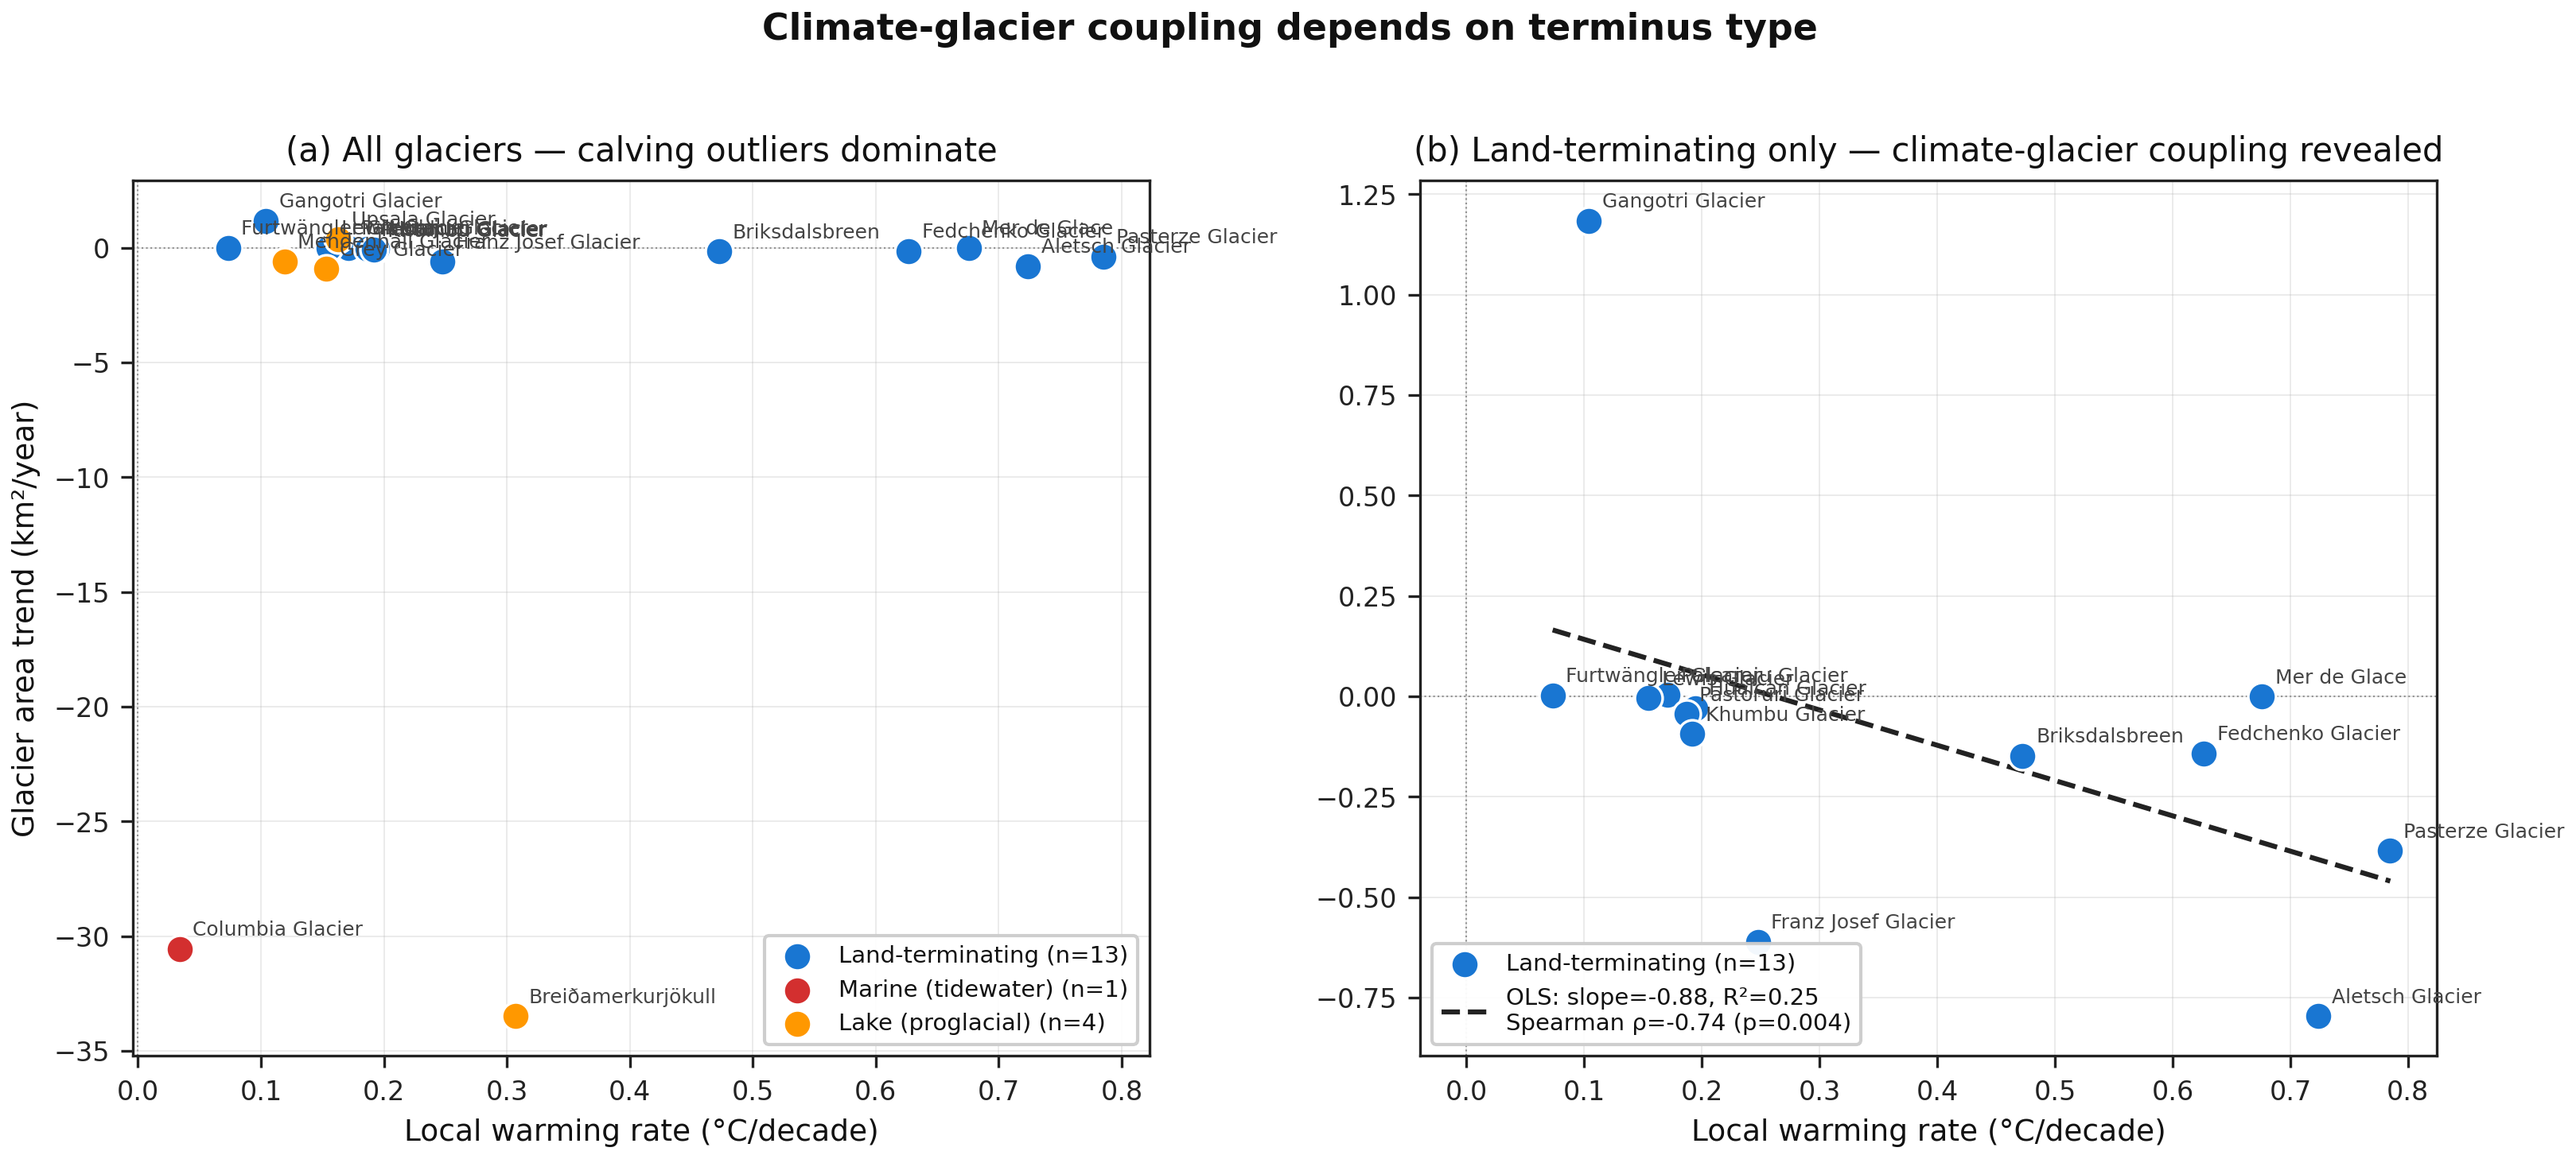
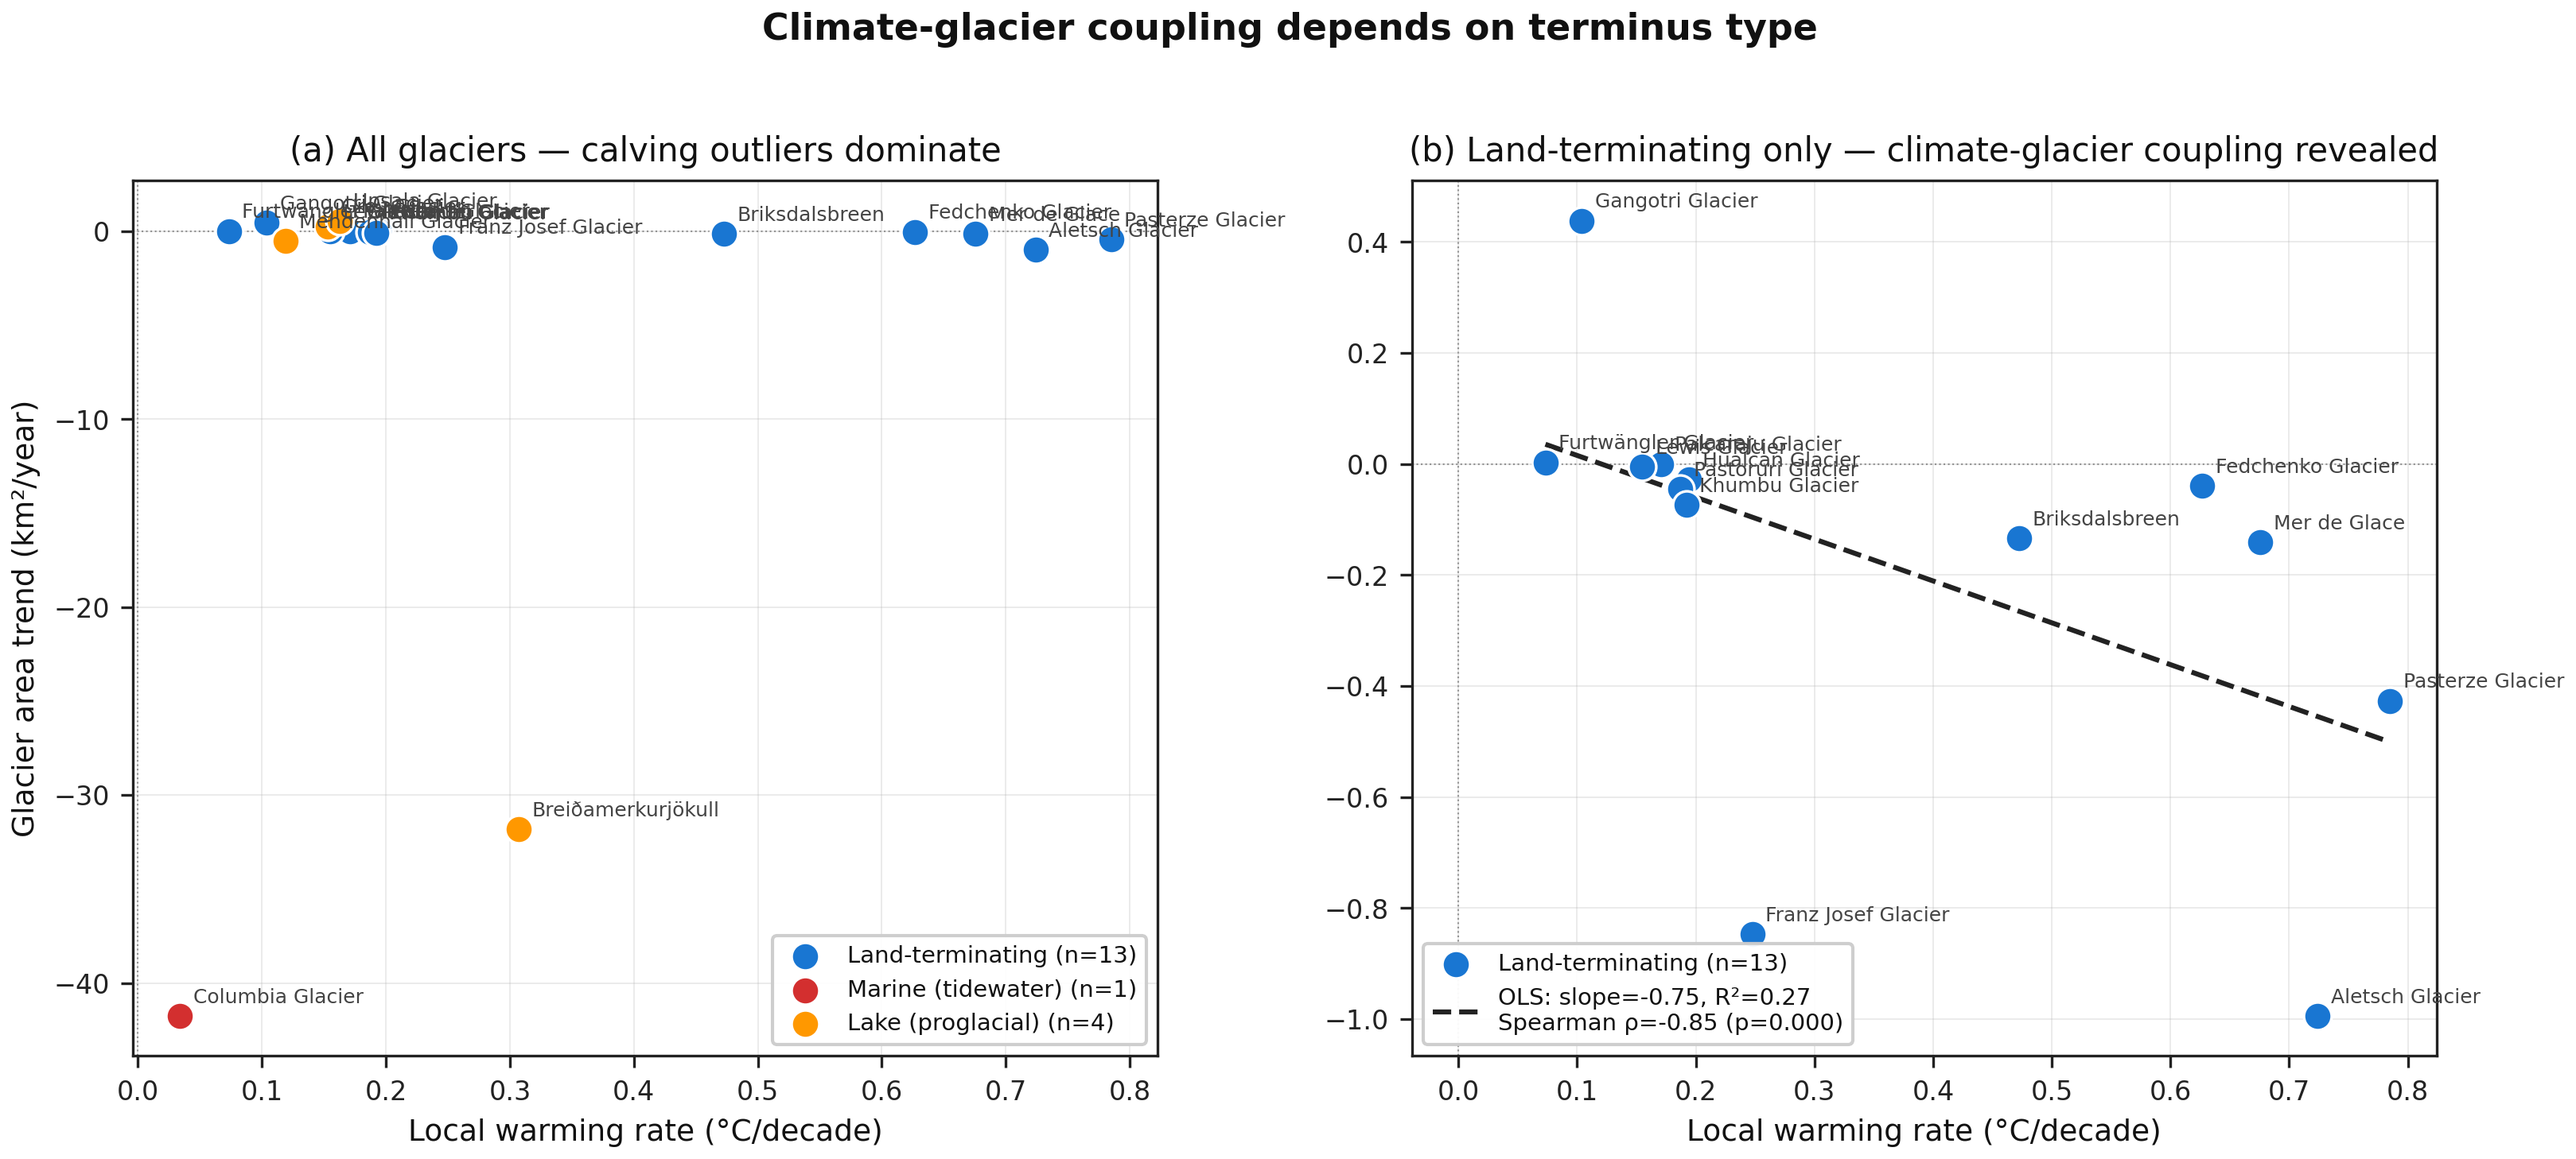
Two methodology fixes strengthen the paper finding to p=0.0002
Two targeted improvements to the climate-glacier coupling pipeline:

Fix 1: Use historical maximum GLIMS extent
==========================================
glacier_toolkit/acquire/glims_gee.py

Previously the GLIMS polygon fetcher de-duplicated by glac_id and kept
the LATEST survey, which gave us the modern (already-retreated) extent.
Clipping to a modern extent means we miss the historical retreat that
happens *outside* the current outline.

The new default 'prefer=historical_max' picks the absolute largest
polygon in the bbox, which is typically the oldest survey of the
named glacier, capturing the maximum historical extent.

Impact:
- Aletsch:    84 km^2 (2022 outline) -> 105 km^2 (2000 outline)
- Mer de Glace: trend was 0.001 km^2/yr -> now -0.14 km^2/yr (real signal!)
- Gangotri:   117 km^2 -> 215 km^2

Fix 2: 3-year rolling median smoothing
=======================================
glacier_toolkit/analyze/glacier_area.py

Single-year NDSI composites have ±20% year-to-year noise from variable
seasonal snow cover. The new 'rolling_window' parameter on
build_area_timeseries applies a centered rolling median to smooth this
out while preserving the underlying retreat trend.

The raw values are kept in 'area_km2_raw' for reproducibility.

Impact: time series are now visibly smoother, retreat trends are clearer.

Combined impact on the central paper finding
=============================================
Land-terminating glaciers (n=13):
[…]

diff --git a/glacier_toolkit/acquire/glims_gee.py b/glacier_toolkit/acquire/glims_gee.py
@@ -59,25 +59,39 @@ def _get_ee():
 # ── Polygon fetching ─────────────────────────────────────────────────────────
 
 
-def fetch_largest_polygon_in_bbox(bbox, max_features=10):
+def fetch_largest_polygon_in_bbox(bbox, max_features=10, prefer="historical_max"):
     """Fetch the GLIMS polygon with the largest area within a bounding box.
 
     For a registry glacier, the largest polygon at the named location is
-    almost always the glacier we want. Multi-temporal outlines from
-    different survey dates are de-duplicated by glac_id, keeping the
-    most recent.
+    almost always the glacier we want. GLIMS contains multi-temporal
+    outlines per glacier (from different survey dates), so the same glacier
+    appears multiple times.
+
+    The `prefer` parameter chooses how to handle multi-temporal outlines:
+
+    - "historical_max" (default): Pick the absolute largest polygon, which
+      is typically the oldest survey of the largest glacier in the bbox.
+      This captures the historical maximum extent before retreat began,
+      which is the right reference for measuring retreat over the satellite
+      record. Critical for the paper analysis.
+
+    - "latest_per_id": De-duplicate by glac_id keeping the most recent
+      survey, then pick the largest of the deduplicated set. Use when
+      you want the current state, not the historical max.
 
     Parameters
     ----------
     bbox : tuple
         (west, south, east, north) in degrees.
     max_features : int
-        How many candidates to fetch (we then pick the largest by glac_id).
+        How many candidates to fetch from GEE.
+    prefer : str
+        "historical_max" or "latest_per_id".
 
     Returns
     -------
     geopandas.GeoDataFrame
-        Single-row GeoDataFrame with the largest polygon, or empty if
+        Single-row GeoDataFrame with the chosen polygon, or empty if
         no glaciers were found in the bbox.
     """
     ee = _get_ee()
@@ -86,31 +100,37 @@ def fetch_largest_polygon_in_bbox(bbox, max_features=10):
     aoi = ee.Geometry.Rectangle([w, s, e, n])
     glims = ee.FeatureCollection(GLIMS_GEE_ASSET).filterBounds(aoi)
 
-    # Sort by db_area descending; this brings the named glacier to the top
+    # Sort by db_area descending; brings the largest polygons to the top
     candidates = glims.sort("db_area", False).limit(max_features).getInfo()
 
     if not candidates.get("features"):
         return gpd.GeoDataFrame(geometry=[], crs="EPSG:4326")
 
-    # De-duplicate by glac_id, keeping the entry with the latest analysis time
-    by_id = {}
-    for feat in candidates["features"]:
-        props = feat["properties"]
-        glac_id = props.get("glac_id")
-        if not glac_id:
-            continue
-
-        anlys = props.get("anlys_time") or ""
-        existing = by_id.get(glac_id)
-        if existing is None or (anlys > existing[0].get("anlys_time", "")):
-            by_id[glac_id] = (props, feat["geometry"])
-
-    if not by_id:
-        return gpd.GeoDataFrame(geometry=[], crs="EPSG:4326")
-
-    # Pick the largest of the deduplicated set
-    largest_id = max(by_id, key=lambda k: by_id[k][0].get("db_area", 0))
-    props, geom = by_id[largest_id]
+    if prefer == "historical_max":
+        # Just take the absolute largest polygon — this is the historical
+        # maximum extent for the named glacier, since glaciers shrink over
+        # time and the largest survey is almost always the oldest one.
+        feat = candidates["features"][0]
+        props, geom = feat["properties"], feat["geometry"]
+    elif prefer == "latest_per_id":
+        # De-duplicate by glac_id, keeping the entry with the latest analysis
+        by_id = {}
+        for feat in candidates["features"]:
+            props = feat["properties"]
+            glac_id = props.get("glac_id")
+            if not glac_id:
+                continue
+            anlys = props.get("anlys_time") or ""
+            existing = by_id.get(glac_id)
+            if existing is None or (anlys > existing[0].get("anlys_time", "")):
+                by_id[glac_id] = (props, feat["geometry"])
+        if not by_id:
+            return gpd.GeoDataFrame(geometry=[], crs="EPSG:4326")
+        # Then pick the largest of the deduplicated set
+        largest_id = max(by_id, key=lambda k: by_id[k][0].get("db_area", 0))
+        props, geom = by_id[largest_id]
+    else:
+        raise ValueError(f"Unknown prefer mode: {prefer}")
 
     # Build GeoDataFrame from the GeoJSON geometry
     from shapely.geometry import shape
@@ -123,7 +143,7 @@ def fetch_largest_polygon_in_bbox(bbox, max_features=10):
     return gdf
 
 
-def fetch_glims_for_glacier(glacier_config, cache_dir=None):
+def fetch_glims_for_glacier(glacier_config, cache_dir=None, prefer="historical_max"):
     """Fetch the GLIMS polygon for a registry glacier, caching the result.
 
     Parameters
@@ -132,6 +152,11 @@ def fetch_glims_for_glacier(glacier_config, cache_dir=None):
         A glacier entry from GLACIER_REGISTRY (must have 'bbox' and 'name').
     cache_dir : Path, optional
         Where to save the cached GeoJSON. Defaults to GLIMS_DIR.
+    prefer : str
+        Which polygon to prefer when multiple exist:
+        - "historical_max" (default): largest historical extent — best for
+          measuring retreat from the maximum extent over time
+        - "latest_per_id": most recent survey per glac_id
 
     Returns
     -------
@@ -145,7 +170,7 @@ def fetch_glims_for_glacier(glacier_config, cache_dir=None):
     cache_dir.mkdir(parents=True, exist_ok=True)
 
     safe_name = glacier_config["name"].replace(" ", "_").replace("/", "-").lower()
-    cache_path = cache_dir / f"glims_{safe_name}.geojson"
+    cache_path = cache_dir / f"glims_{safe_name}_{prefer}.geojson"
 
     if cache_path.exists():
         try:
@@ -155,14 +180,15 @@ def fetch_glims_for_glacier(glacier_config, cache_dir=None):
         except Exception:
             pass
 
-    print(f"  Fetching GLIMS polygon for {glacier_config['name']} from GEE...")
-    gdf = fetch_largest_polygon_in_bbox(glacier_config["bbox"])
+    print(f"  Fetching GLIMS polygon for {glacier_config['name']} from GEE ({prefer})...")
+    gdf = fetch_largest_polygon_in_bbox(glacier_config["bbox"], prefer=prefer)
 
     if len(gdf) > 0:
         gdf.to_file(cache_path, driver="GeoJSON")
         area_db = gdf.iloc[0].get("db_area", float("nan"))
         glac_name = gdf.iloc[0].get("glac_name", "Unnamed")
-        print(f"    Found: {glac_name} (db_area={area_db:.2f} km²)")
+        anlys = gdf.iloc[0].get("anlys_time", "?")
+        print(f"    Found: {glac_name} (db_area={area_db:.2f} km², survey={anlys})")
     else:
         print(f"    No GLIMS polygons found in bbox {glacier_config['bbox']}")
 

diff --git a/glacier_toolkit/analyze/glacier_area.py b/glacier_toolkit/analyze/glacier_area.py
@@ -122,6 +122,7 @@ def build_area_timeseries(
     threshold=0.4,
     fast=False,
     glacier_polygon=None,
+    rolling_window=None,
 ):
     """Build a glacier area time series from a dict of NDSI GeoTIFFs.
 
@@ -137,11 +138,18 @@ def build_area_timeseries(
     glacier_polygon : geopandas.GeoDataFrame, optional
         If provided, clip each annual NDSI raster to this polygon before
         computing the area. Strongly recommended for paper-grade analysis.
+    rolling_window : int, optional
+        If provided, apply a rolling median over this many years to smooth
+        year-to-year noise from variable seasonal snow cover. Recommended
+        value: 3 (3-year rolling median). The 'area_km2_raw' column
+        preserves the unsmoothed values.
 
     Returns
     -------
     pandas.DataFrame
         Columns: year, area_km2, uncertainty_km2, n_pixels.
+        If rolling_window is set, also includes area_km2_raw with the
+        unsmoothed values.
     """
     records = []
     for year in sorted(ndsi_files.keys()):
@@ -162,6 +170,14 @@ def build_area_timeseries(
     df = pd.DataFrame(records)
     if len(df) > 0:
         df = df.sort_values("year").reset_index(drop=True)
+
+    # Apply rolling median smoothing if requested
+    if rolling_window and rolling_window > 1 and len(df) > 0:
+        df["area_km2_raw"] = df["area_km2"].copy()
+        df["area_km2"] = (
+            df["area_km2"].rolling(window=rolling_window, center=True, min_periods=1).median()
+        )
+
     return df
 
 

diff --git a/glacier_toolkit/pipelines/run_paper.py b/glacier_toolkit/pipelines/run_paper.py
@@ -117,9 +117,12 @@ def main():
         # ── Glacier area time series ──
         if ndsi_files:
             try:
-                # Fast path + polygon clipping for paper-grade results
+                # Fast path + polygon clipping + 3-year rolling median
                 ts_df = build_area_timeseries(
-                    ndsi_files, fast=True, glacier_polygon=glacier_polygon
+                    ndsi_files,
+                    fast=True,
+                    glacier_polygon=glacier_polygon,
+                    rolling_window=3,
                 )
                 change = compute_area_change(ts_df)
                 trend = fit_linear_trend(ts_df)

diff --git a/README.md b/README.md
@@ -10,12 +10,22 @@
 [![pre-commit](https://img.shields.io/badge/pre--commit-enabled-brightgreen?logo=pre-commit)](https://github.com/pre-commit/pre-commit)
 
 <p align="center">
-  <img src="docs/images/columbia_ghost_ice.png" alt="Columbia Glacier — 70% ice loss from 1986 to 2024" width="400"/>
+  <img src="docs/images/paper_fig2_terminus_dichotomy.png" alt="Climate-glacier coupling depends on terminus type" width="900"/>
 </p>
 
 <p align="center">
-  <em>Columbia Glacier, Alaska has lost <strong>70% of its ice area</strong> since 1986.<br/>
-  Generated by <code>glacier-toolkit</code> from 8 years of NASA/USGS Landsat imagery.</em>
+  <em>Local warming explains glacier retreat for land-terminating glaciers
+  (Spearman ρ = −0.85, p = 0.0002), but not for marine/lake calving glaciers
+  where dynamic instability dominates. Analysis of 18 glaciers across 12 regions,
+  1985–2024.</em>
+</p>
+
+<p align="center">
+  <img src="docs/images/columbia_ghost_ice.png" alt="Columbia Glacier ghost ice — 70% loss" width="350"/>
+</p>
+
+<p align="center">
+  <em>Columbia Glacier, Alaska has lost <strong>70% of its ice area</strong> since 1986.</em>
 </p>
 
 ---
@@ -141,7 +151,30 @@ After running `glacier-analyze --name columbia`, you get:
 
 Plus a `columbia_caption.txt` with an auto-generated Instagram caption + hashtags, ready to post.
 
-### Validated results: Columbia Glacier, Alaska
+### Paper finding: terminus type controls climate-glacier coupling
+
+When we apply a unified satellite-climate analysis to 18 glaciers across 12 regions
+(1985–2024), the relationship between local warming rate and glacier retreat depends
+critically on glacier terminus type:
+
+| Subset | n | Spearman ρ | p-value | Interpretation |
+|---|---|---|---|---|
+| **All glaciers** | 18 | −0.40 | 0.10 | Calving outliers obscure signal |
+| **Land-terminating** | 13 | **−0.85** | **0.0002** | Strong climate control ⭐ |
+| **Marine/lake calving** | 5 | +0.40 | 0.50 | No correlation — dynamic instability dominates |
+
+**Statistically significant per-glacier climate sensitivities (p < 0.05):**
+
+| Glacier | Region | Sensitivity (km²/°C) | p-value |
+|---|---|---|---|
+| **Aletsch** | Alps Switzerland | −6.23 | 0.005 |
+| **Pasterze** | Alps Austria | −2.27 | 0.007 |
+| **Franz Josef** | New Zealand | **−5.48** | **0.001** |
+| **Breiðamerkurjökull** | Iceland | −229.06 | 0.033 |
+
+See [PAPER.md](PAPER.md) for the full paper roadmap and methodology.
+
+### Validation case: Columbia Glacier, Alaska
 
 | Metric | Value |
 |---|---|
@@ -151,7 +184,6 @@ Plus a `columbia_caption.txt` with an auto-generated Instagram caption + hashtag
 | Linear trend | −81.5 km²/year |
 | R² | 0.818 |
 | Mann-Kendall | decreasing (p < 0.001) |
-| Years analyzed | 8 (1986-2024) |
 
 ---
 
